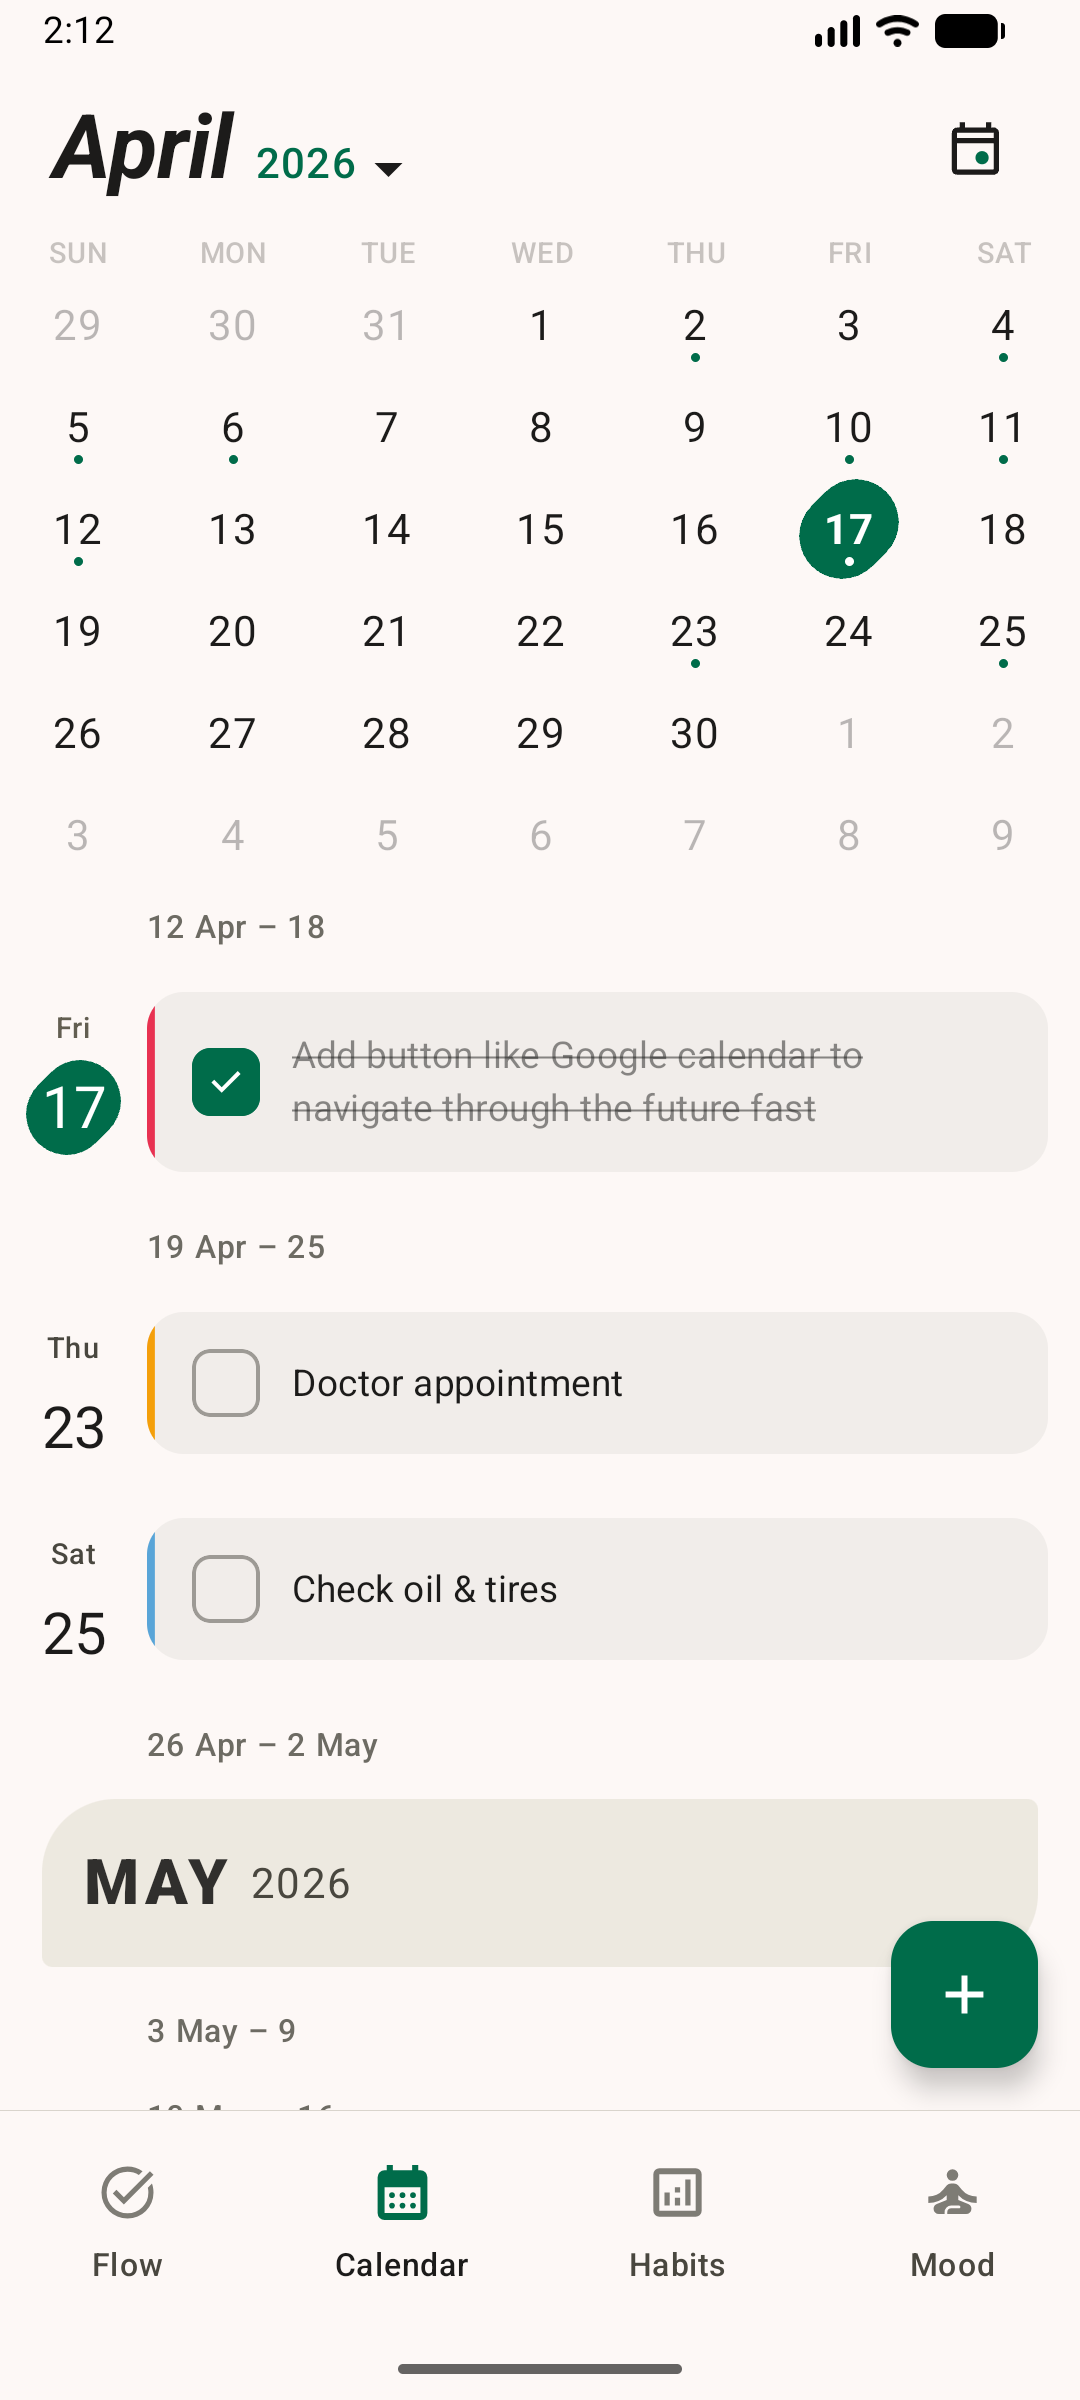
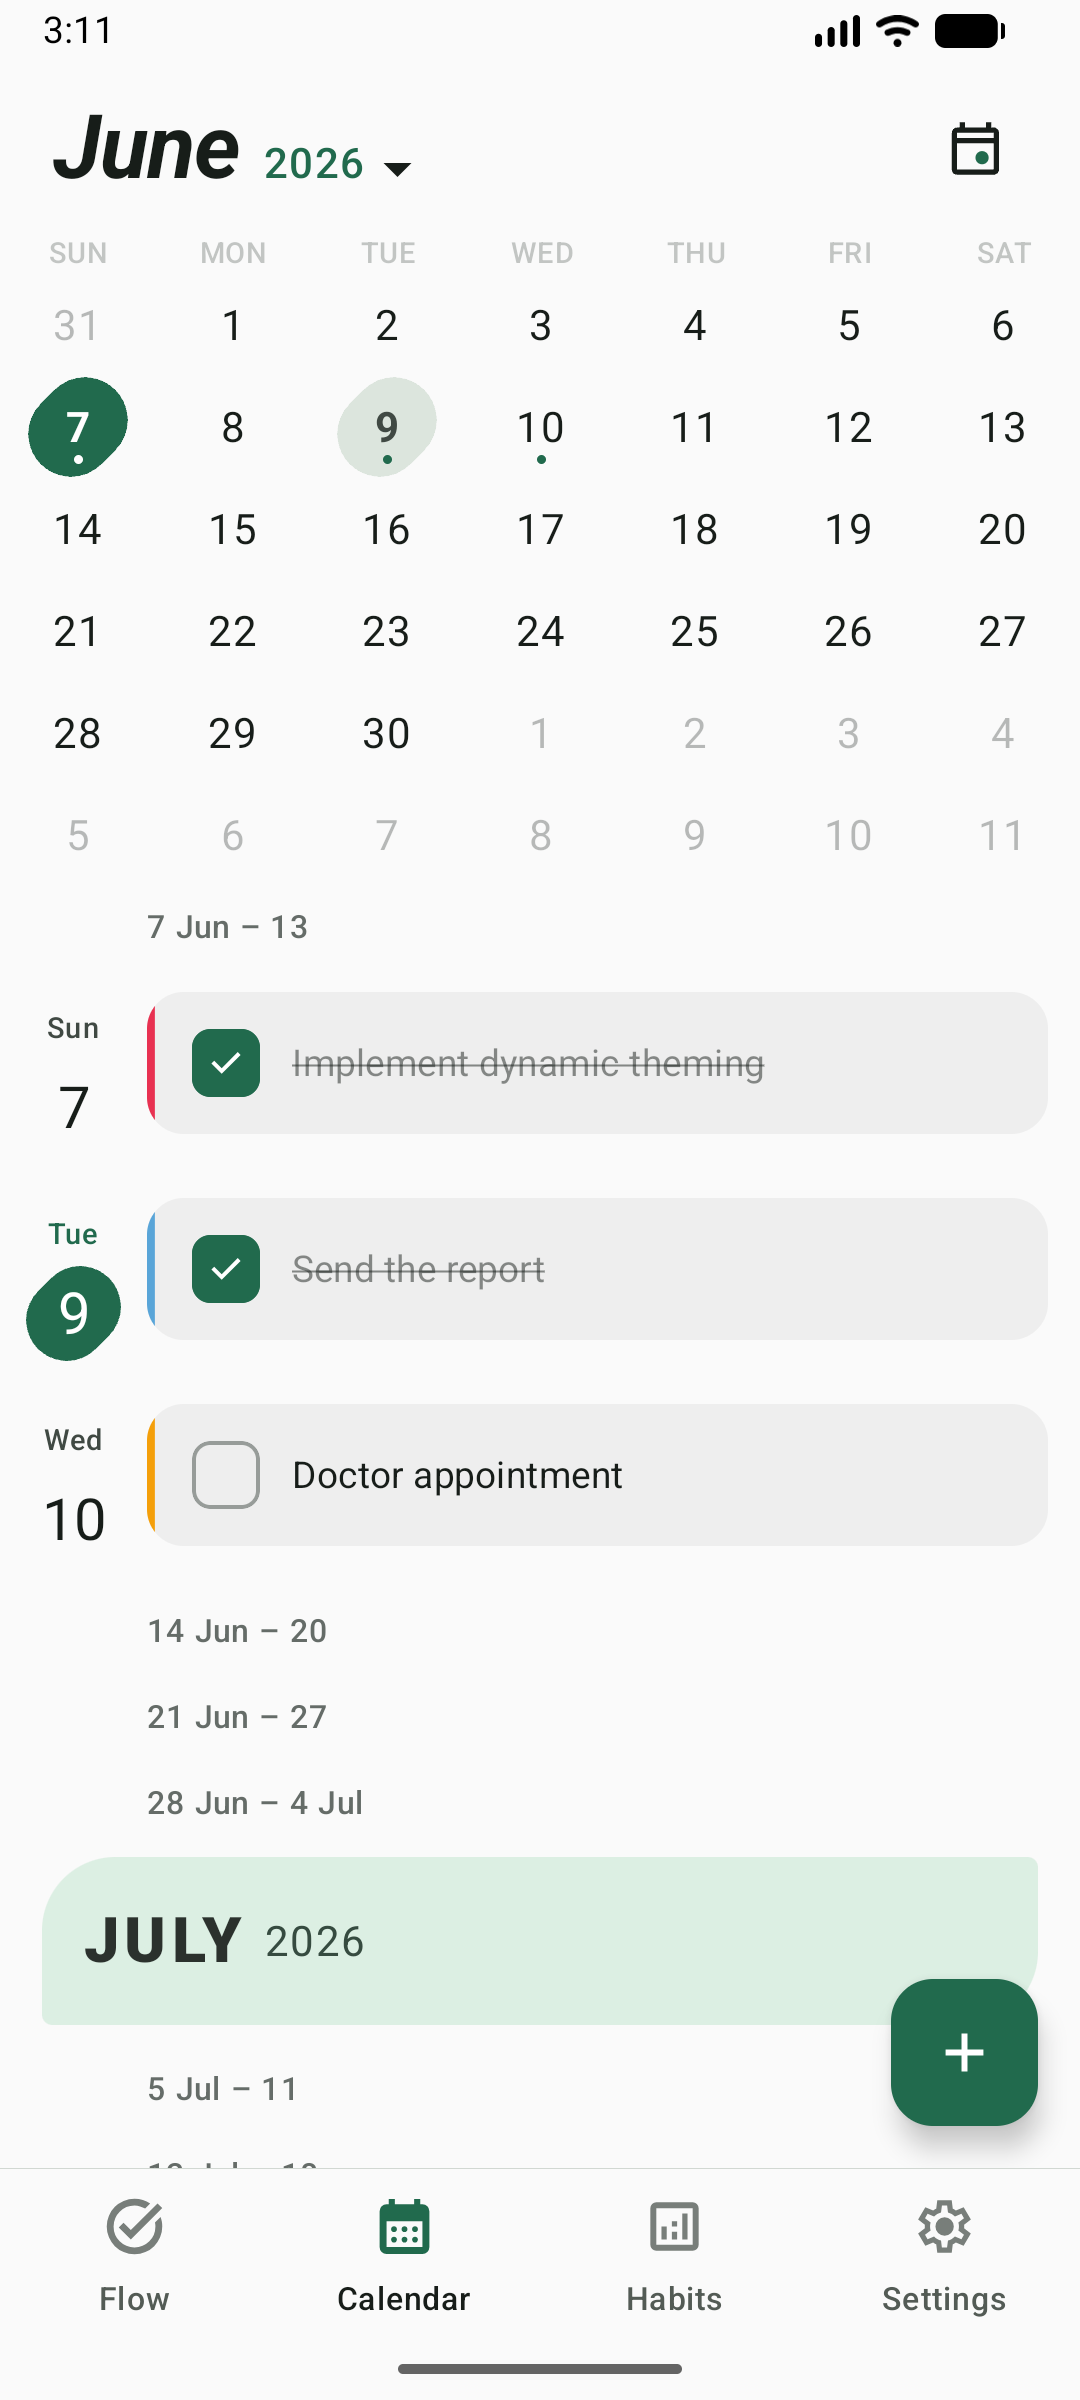
docs: update screenshots

diff --git a/README.md b/README.md
@@ -36,9 +36,10 @@
 - **Calendar** view
 - **Habit Tracking**: Build daily routines and track streaks
 - **Reminders**
+- **Widgets** for basic habits
 
 ### In Development
-- **Widgets**: Home screen widgets for quick access
+- **Widgets**: More widgets
 - **Mood Tracking**: Log daily emotions and view trends
 - **Improve UI**: in the tasks and habits module
 - **Themes**: More customization options
